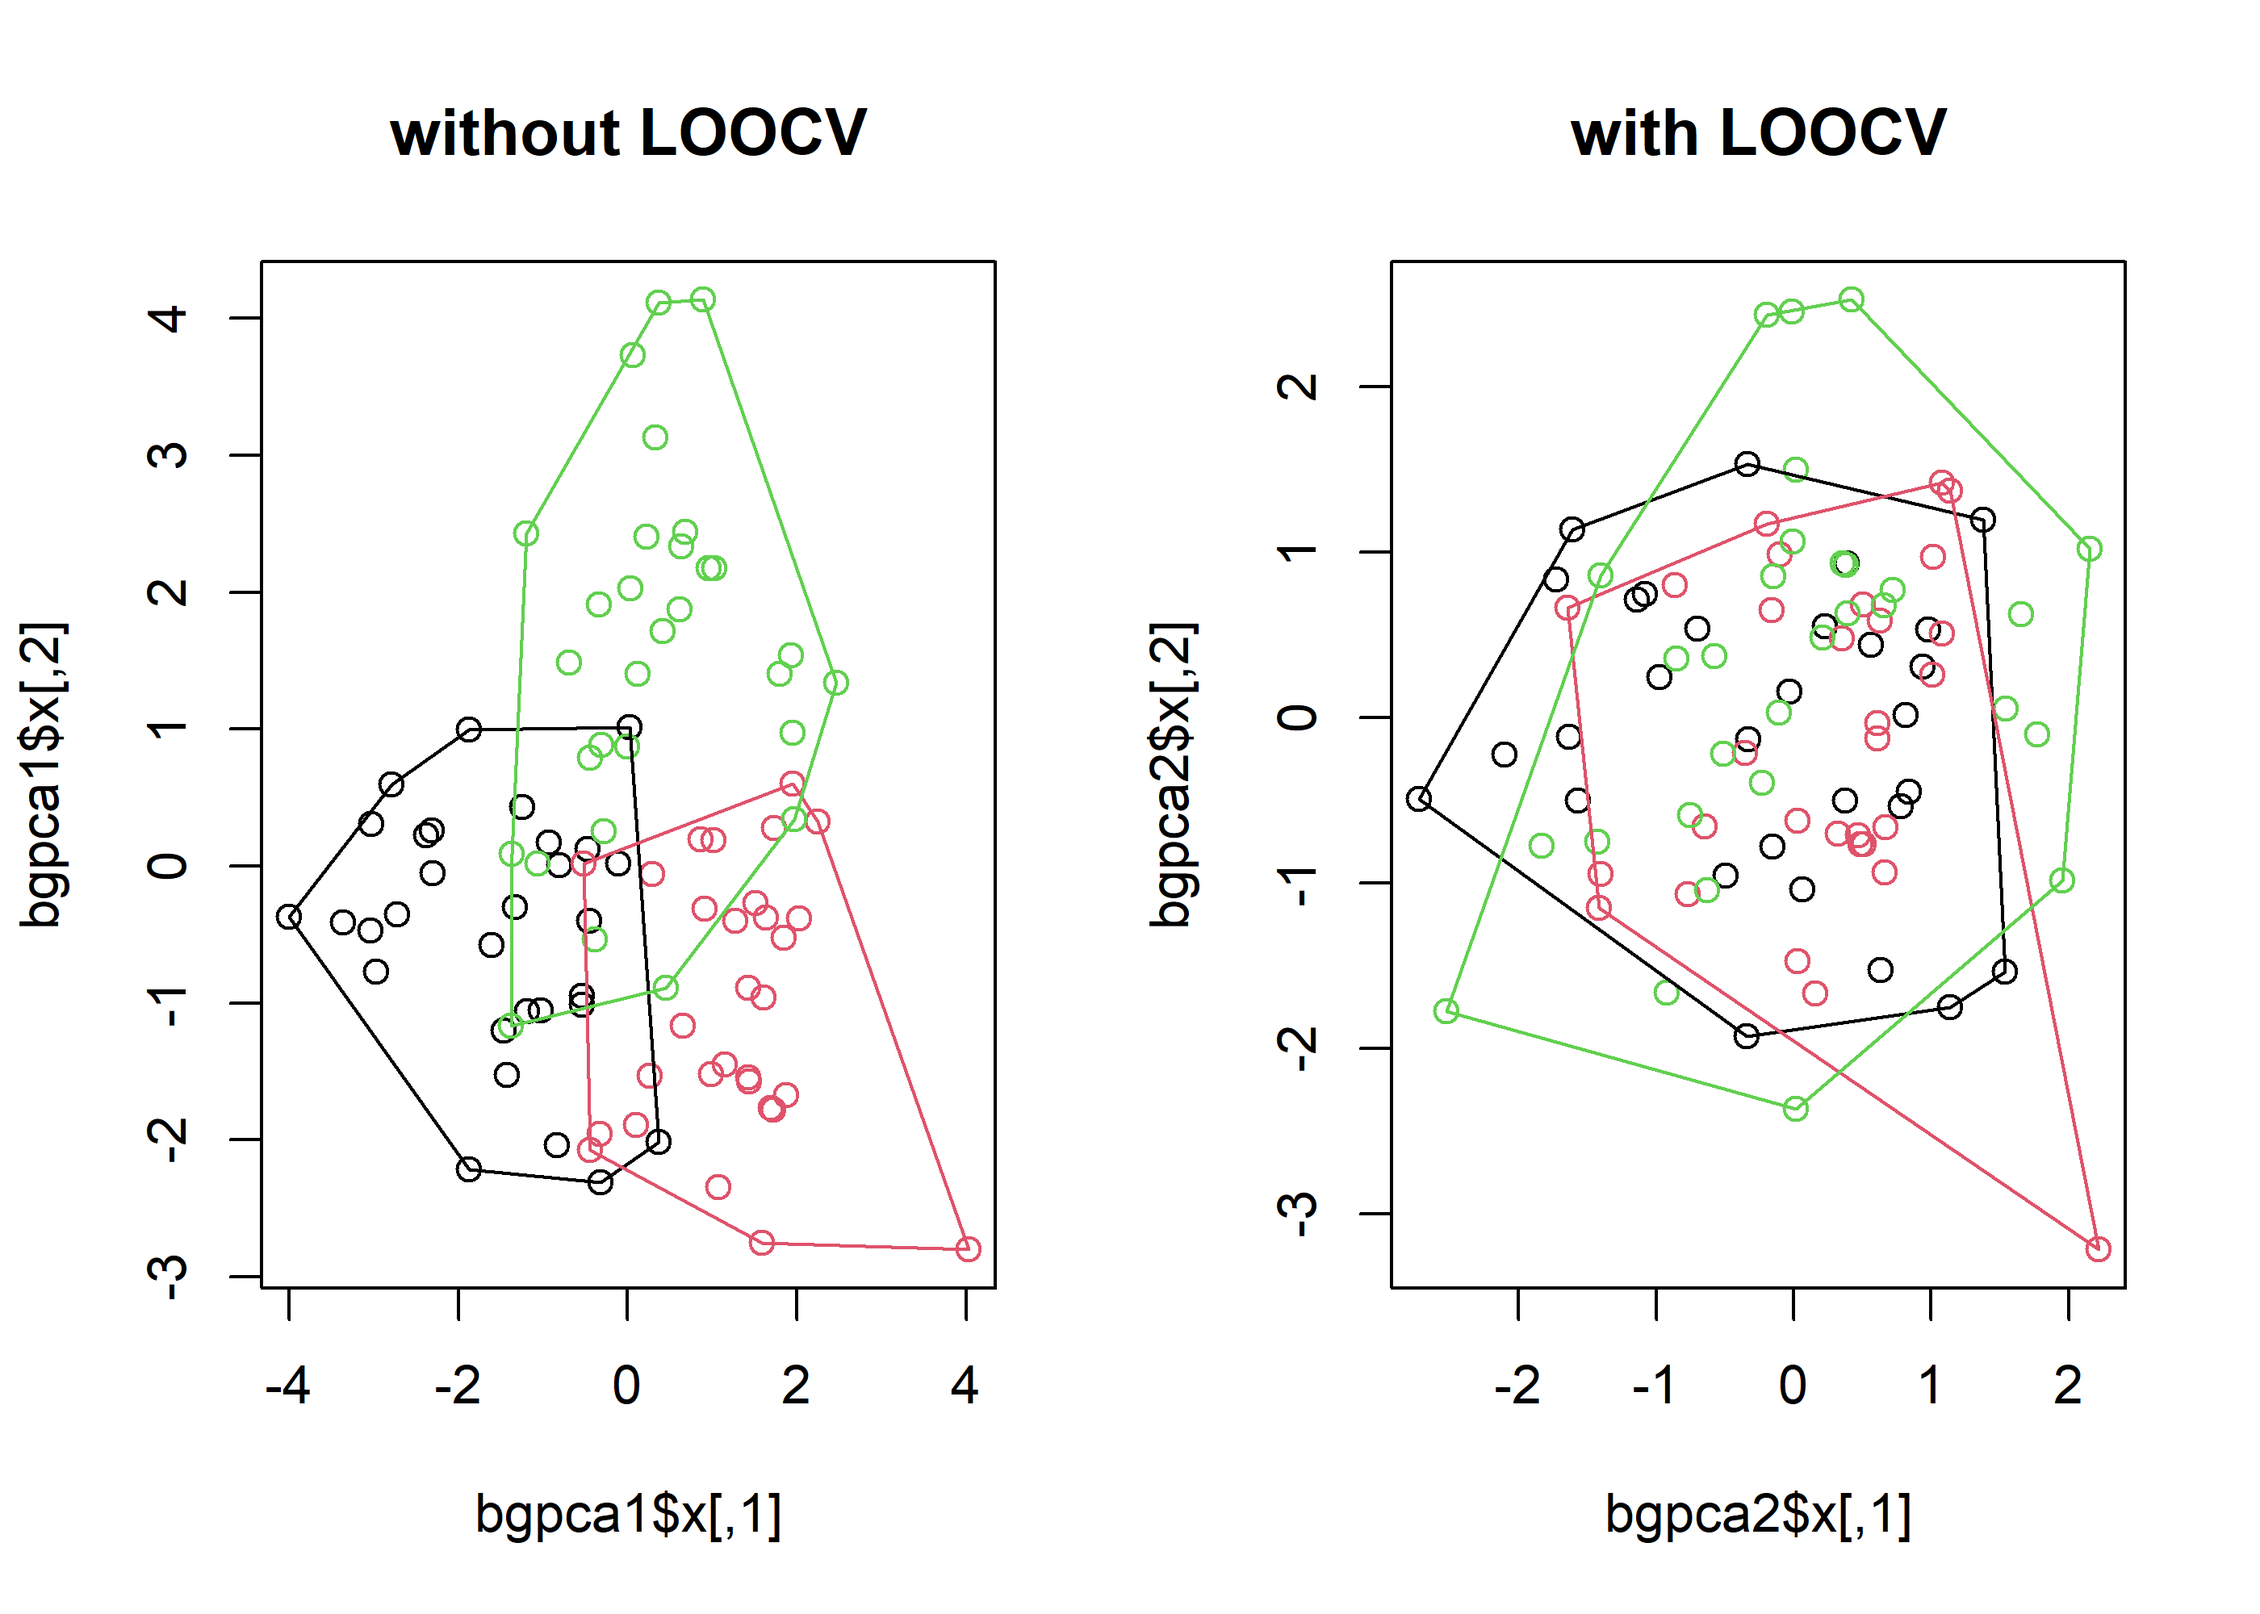
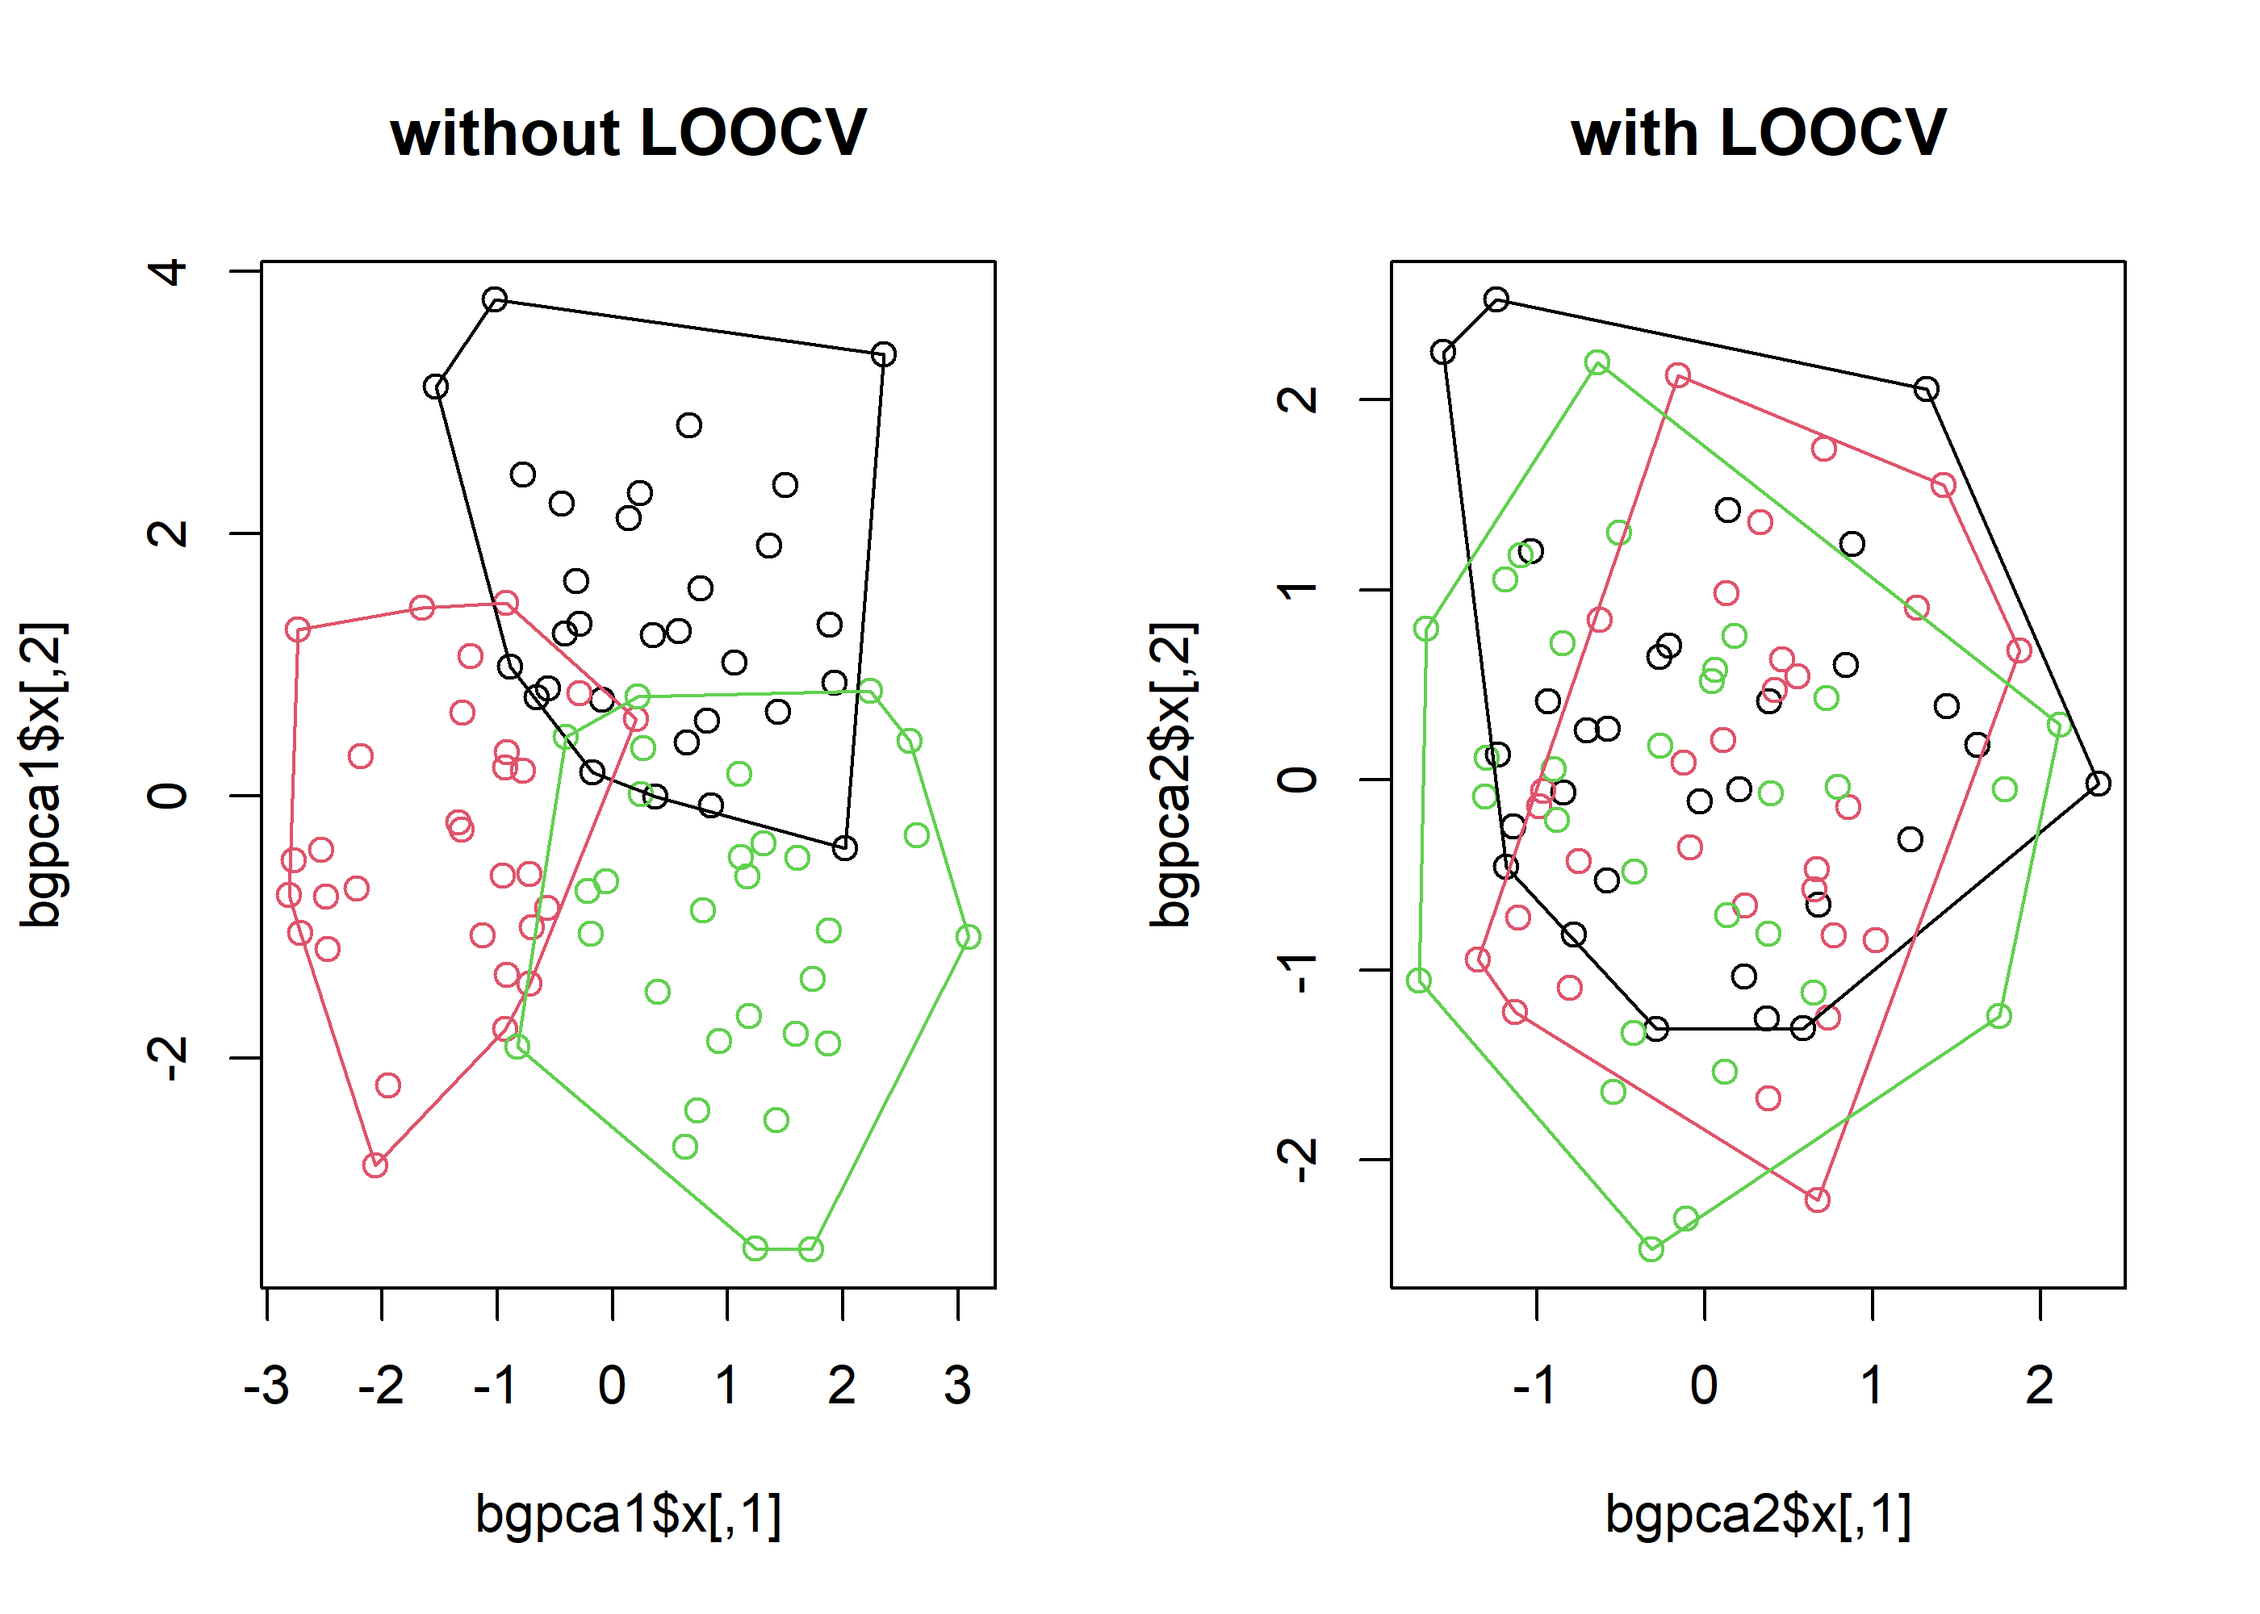
more changes in readme; .R files names; DESCRIPTION is ready.

diff --git a/README.md b/README.md
@@ -6,7 +6,7 @@
 <!-- badges: start -->
 <!-- badges: end -->
 
-A package for people who can’t visualize morphospaces good and wanna
+A package for people who can’t visualize morphospaces good and who wanna
 learn to do other geometric morphometrics stuff good too.
 
 ## Installation
@@ -21,28 +21,32 @@ devtools::install_github("millacarmona/morphospace")
 
 ## Purpose
 
-This package is intended to aid exploration and depiction of
-multivariate ordinations of shape data obtained through geometric
-morphometrics analyses. The functions from `morphospace` have been
-designed to work in intergration with other widely used geometric
-morphometrics R packages such as `Morpho` (Schlager 2017), `geomorph`
-(Adams et al. 2021), `shapes` (Dryden 2019), and `Momocs` (Bonhome et
-al. 2014), whose functions cover other more essential steps in geometric
-morphometrics analysis (e.g. import, normalization, and statistical
-analysis).
+The general motivation to create `morphospace` was to crystallize my
+experiences introducing geometric morphometrics to biologists and
+paleontologists, as well as to assist my own daily research (which
+revolves around morphological evolution and depends heavily on a number
+of R packages). In particular, this package is intended to aid
+representation and exploration of multivariate ordinations of shape
+data, and has been designed to work in intergration with other widely
+used R packages that cover more essential steps in the geometric
+morphometrics pipeline (e.g. importing, normalization, statistical
+analysis) such as `Morpho` (Schlager 2017), `geomorph` (Adams et
+al. 2021), `shapes` (Dryden 2019), and `Momocs` (Bonhome et al. 2014).
+
+## Landmark data
 
 Below, the general concept and capabilities of `morphospace` are
-displayed using two data sets representing different types of geometric
-morphometric data. The first data set, taken from from Fasanelli et
+showcased using two data sets representing different types of geometric
+morphometrics data. The first data set, taken from from Fasanelli et
 al. (2022), contains a sample of tail shapes from the 13 species of the
 genus *Tyrannus*, two of which (*T. savana* and *T. forficatus*) display
 exaggeratedly elongated tails, as well as a considerable allometric
-variation and sexual dimorphism in tail shape. The `tails` data set
-contains landmark data and centroid sizes from the tails of 281
-specimens, their classification to species and sex, and the phylogenetic
-relationships between *Tyrannus* species (see Fasanelli et al. 2022 and
-references therein). Also included are the links between landmarks to
-aid visualization of landmark configurations.
+variation and sexual dimorphism. The `tails` data set contains landmark
+data and centroid sizes from the tails of 281 specimens, their
+classification to species and sex, and the phylogenetic relationships
+between *Tyrannus* species (see Fasanelli et al. 2022 and references
+therein). To further help visualization of shapes, the links between
+landmarks have also been included.
 
 ``` r
 library(morphospace)
@@ -65,7 +69,8 @@ tree <- tails$tree
 
 Morphometric variation is assumed to be already free of differences of
 orientation, position and scale. This standardization can be readily
-performed using functions from the aforementioned R packages.
+performed using a number of functions provided by the aforementioned R
+packages.
 
 ``` r
 # Inspect shapes
@@ -73,8 +78,6 @@ pile_shapes(shapes, links = links)
 ```
 
 <img src="man/figures/README-unnamed-chunk-3-1.png" width="100%" />
-
-## Shape operations
 
 This package provide some functions that perform basic operations with
 shape variables, such as the calculation of mean shapes or the
@@ -95,7 +98,7 @@ The basic idea behind the `morphospace` workflow is to build (empiric)
 morphospaces using multivariate methods (PCA and the like), then use the
 resulting synthesis as a reference in which to project different
 elements. These elements are added both to the plot and the `"mspace"`
-object as succesive ‘layers’ or list slots, respectively, using the
+object as consecutive ‘layers’ or list slots, respectively, using the
 `%>%` pipe operator from `magrittr` (Bache & Wickham 2022).
 
 ``` r
@@ -185,21 +188,20 @@ title("Morphospace \n+ PCs 1 and 2 projected")
 
 The default settings of `mspace` rely on the `prcomp` function from base
 R to perform the PCA that builds the synthetic morphometric space.
-However, `morphospace` also includes a couple of supervised ordination
-alternatives, namely phylogenetic PCA (Revell 2009; borrowed from
-`phytools`, Revell 2012) between-groups PCA (functions `bg_prcomp`) and
-Partial Least Squares (PLS; functions `pls2b` and `pls_shapes`, the
-latter being an adaptation of the former for the analysis of shape data
-against other non-shape variables). These have been styled so they share
-format with `prcomp`, and the latter two allow performing a
-leave-one-out cross-validation that alleviates some spurious results
-that can arise when the number of variables exceeds the number of
-samples (as it is common in geometric morphometric analyses; see Cardini
-et al. 2019 and Cardini & Polly 2020).
+However, `morphospace` also includes a couple of alternatives for
+supervised ordination, namely phylogenetic PCA (Revell 2009; borrowed
+from `phytools`, Revell 2012), between-groups PCA (`bg_prcomp`), and
+Partial Least Squares (`pls2b`). These have been styled/wrapped so they
+share format with `prcomp`, and the latter two allow for leave-one-out
+cross-validation (LOOCV), which alleviates some spurious patterns that
+arise when the number of variables exceeds the number of samples (as it
+is common in geometric morphometric analyses; see Cardini et al. 2019
+and Cardini & Polly 2020).
 
 ``` r
 # Simulate 100 random normal distributions, and add an artificial classification and
 # an artificial covariate
+set.seed(123)
 random_y <- do.call("cbind", lapply(1:100, function(i) {rnorm(90)}))
 class <- factor(rep(c("A", "B", "C"), each = 30))
 random_x <- rnorm(90)
@@ -247,8 +249,8 @@ dev.off()
 #>           1
 ```
 
-These methods can be used instead of regular PCA for morphospace
-construction via the `FUN` and `...` arguments (adding the argument
+These methods can be used instead of regular PCA for building
+morphospaces via the `FUN` and `...` arguments (adding the argument
 `groups` for `bg_prcomp` and `tree` for `phy_prcomp`) of `mspace`. The
 resulting morphospace can be combined with the rest of the functions in
 the same way as before:
@@ -297,12 +299,13 @@ sequentially construct rather complex graphics.
 
 For example, suppose we are interested in the patterns of interspecific
 variation, but we don’t want the marked divergence of deep forked (DF)
-species to influence the axes because we don’t want the non-deep forked
-(NDF) species to be crushed and collapsed in the same tiny region of the
-morphospace. We could subset our shapes to retain only NDF species,
-build an ordination using a bgPCA between them (so our axes maximize the
-interspecific variation between NDF species), and then project the
-samples corresponding to DF species into the resulting morphospace.
+species to influence the axes, because we don’t want all the non-deep
+forked (NDF) species to be crushed and collapsed in the same tiny region
+of the morphospace. We could subset our shapes to retain only NDF
+species, build an ordination using a bgPCA between them (so our axes
+maximize the interspecific variation between NDF species), and then
+project the samples corresponding to DF species into the resulting
+morphospace.
 
 ``` r
 # Between group PCA - only non-deepforked species, then project deep forked species
@@ -330,6 +333,9 @@ project the phylogenetic relationships into our morphospace so we can
 say we have a phylomorphospace (Sidlauskas 2008). The following chunk of
 code illustrates how to combine the pipe workflow described above with
 `proj_*` functions called outside the pipe.
+
+(Clarification: `pls_shapes` is just a wrapper for `pls2b` aimed at the
+synthesis of shape data supervised by other non-shape variables).
 
 ``` r
 # Between group PCA - only non-deepforked species, then project deep forked species
@@ -486,9 +492,9 @@ variation associated to geographic provenance and allometric variation
 within each species, and then use `consensus` to extract the mean shape
 of the refined sample.
 
-(Just to clarify, we do this in a two step process for a good reason:
-when we use `detrend_shapes` to detrend shape variation, the grand mean
-is used by default as the new mean shape of the sample; however by
+(Clarification: we do this in a two step process for a good reason: when
+we use `detrend_shapes` to detrend shape variation, the grand mean is
+used by default as the new mean shape of the sample; however by
 specifying a value or level of the `x` from the model in the `xvalue`
 argument, we can use that new value as the mean shape for our
 ‘detrended’ shape variation. In this case, we are analitically
